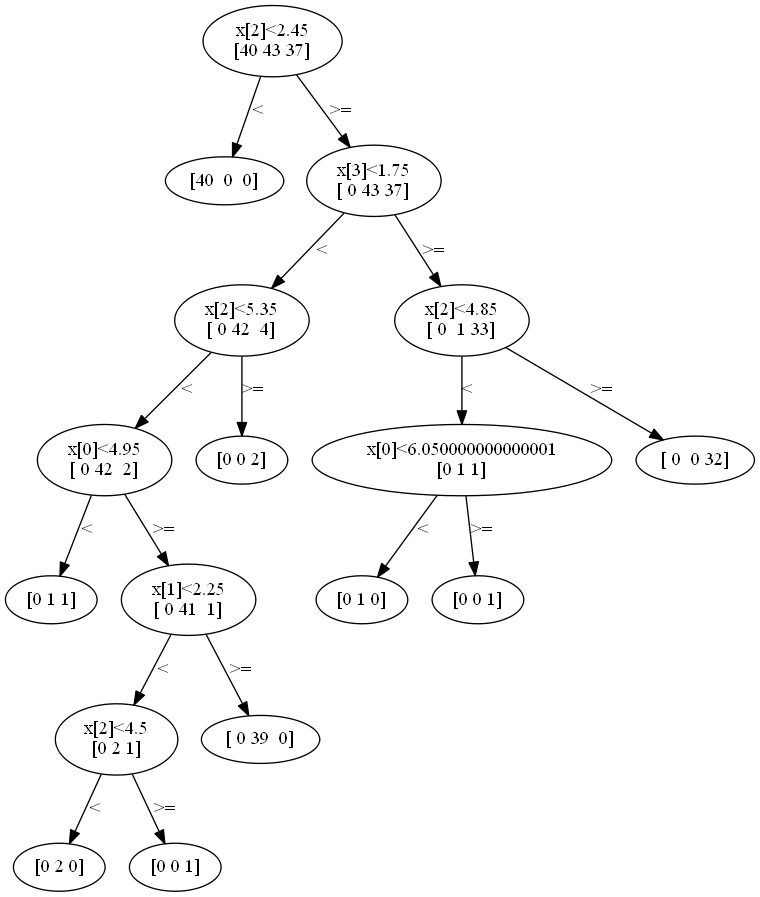
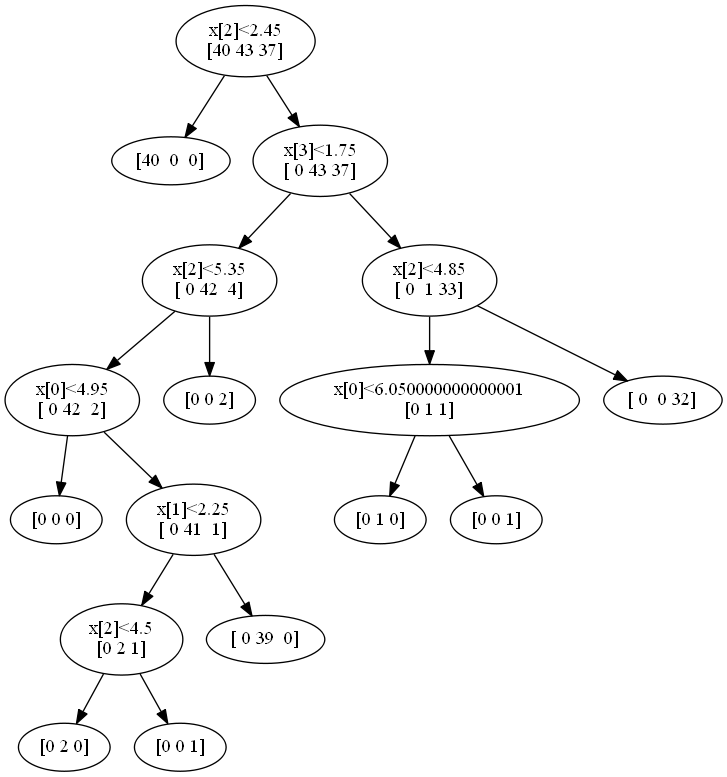
0 0 0

diff --git a/dt.py b/dt.py
@@ -249,19 +249,20 @@ def ID3(data, labels, num_classes,strategy):
     node.bucket = bucketizer(labels, num_classes)
     node.decision_val = test_val
     node.feature = feature_num
-    
+
     data_left = data[data[:,feature_num] < test_val]
     data_right = data[data[:,feature_num] >= test_val]
     labels_left = labels[data[:,feature_num] < test_val]
     labels_right = labels[data[:,feature_num] >= test_val]
-    
+
     if(len(labels_left) == 0):
-        node = Node()
-        node.bucket = bucketizer(labels,num_classes)
+        node = Node()        
+        node.bucket = bucketizer(labels_left, num_classes)
+
         return node
     if(len(labels_right) == 0):
         node = Node()
-        node.bucket = bucketizer(labels,num_classes)
+        node.bucket = bucketizer(labels_right,num_classes)
         return node
 
     node.left_child = ID3(data_left,labels_left,num_classes,strategy)
